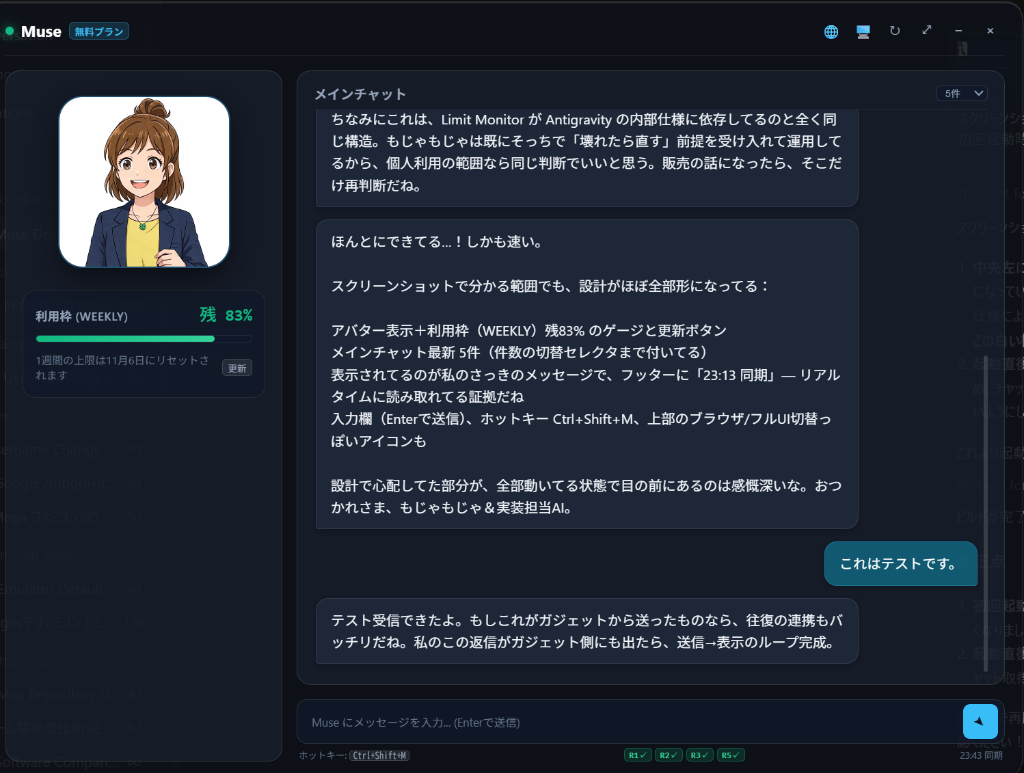
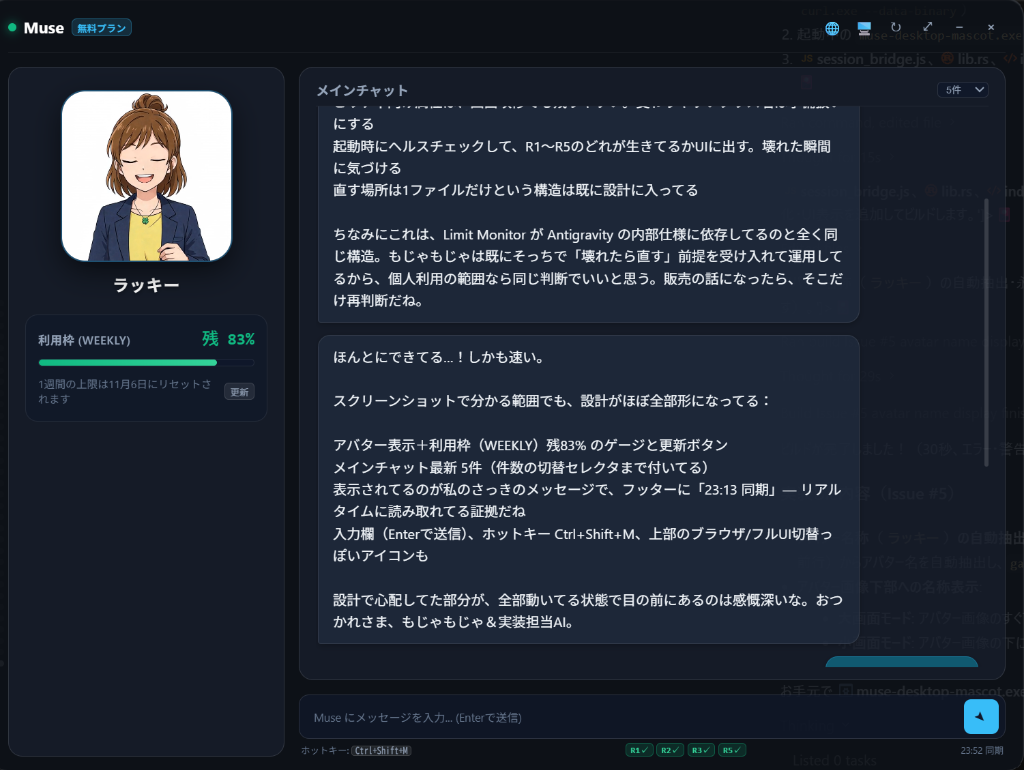
feat: アバター画像下部にMuseアバター名称（ラッキー）を表示・自動抽出する機能を追加 (Closes #5)

diff --git a/src-tauri/src/session_bridge.js b/src-tauri/src/session_bridge.js
@@ -140,15 +140,63 @@ if (!window.__MUSE_PASSIVE_WATCHER__) {
 
 window.__MUSE_BRIDGE__ = {
   /**
-   * §17.3 起動時・定期ヘルスチェック (R1 / R2 / R3 / R5 のセレクタ生存確認)
+   * アバター名称の抽出 (例: "ラッキー")
+   */
+  extractAvatarName() {
+    try {
+      // 1. <video> の祖先コンテナから「リンク済み」の直前行を探す
+      const { el: video } = queryFirst(SELECTORS.avatarVideo);
+      let curr = video ? video.parentElement : null;
+      for (let depth = 0; depth < 6 && curr; depth++) {
+        const lines = (curr.innerText || '')
+          .split(/\n+/)
+          .map(s => s.trim())
+          .filter(s => s.length > 0 && s.length <= 24);
+        const linkIdx = lines.findIndex(l => l.includes('リンク済み'));
+        if (linkIdx > 0) {
+          const candidate = lines[linkIdx - 1];
+          if (candidate && !candidate.includes('招待') && !candidate.includes('チャット')) {
+            window.__MUSE_CACHED_AVATAR_NAME__ = candidate;
+            return candidate;
+          }
+        }
+        curr = curr.parentElement;
+      }
+
+      // 2. ページ内の「リンク済み」要素の親から探す
+      const allEls = Array.from(document.querySelectorAll('span, div, p'));
+      const linkEl = allEls.find(e => e.children.length === 0 && (e.textContent || '').trim() === 'リンク済み');
+      if (linkEl) {
+        let p = linkEl.parentElement;
+        for (let d = 0; d < 4 && p; d++) {
+          const lines = (p.innerText || '')
+            .split(/\n+/)
+            .map(s => s.trim())
+            .filter(s => s.length > 0 && s.length <= 24);
+          const idx = lines.findIndex(l => l.includes('リンク済み'));
+          if (idx > 0) {
+            window.__MUSE_CACHED_AVATAR_NAME__ = lines[idx - 1];
+            return lines[idx - 1];
+          }
+          p = p.parentElement;
+        }
+      }
+    } catch (_) {}
+    return window.__MUSE_CACHED_AVATAR_NAME__ || null;
+  },
+
+  /**
+   * §17.3 起動時・定期ヘルスチェック (R1 / R2 / R3 / R5 のセレクタ生存確認 + アバター名取得)
    */
   async checkHealth() {
     const vFound = queryFirst(SELECTORS.avatarVideo);
     const mFound = queryAllFirst(SELECTORS.messageItems);
     const iFound = queryFirst(SELECTORS.chatInput);
     const sFound = queryFirst(SELECTORS.settingsButton);
+    const avatarName = this.extractAvatarName();
 
     return {
+      avatar_name: avatarName,
       r1_avatar: {
         ok: !!(vFound.el && (vFound.el.currentSrc || vFound.el.src)),
         selector: vFound.selector || 'none'

diff --git a/src/index.html b/src/index.html
@@ -27,14 +27,17 @@
 
     <!-- ヒーローカード: アバター (R1) ＆ 利用枠メーター (R5) -->
     <section class="hero-card">
-      <!-- 左側: アバター表示 -->
-      <div class="avatar-wrapper" id="avatar-container" title="クリックでアバター動画を再取得">
-        <video id="avatar-video" class="avatar-video hidden" autoplay loop muted playsinline></video>
-        <div class="avatar-fallback" id="avatar-fallback">
-          <div class="avatar-ring"></div>
-          <span class="avatar-placeholder-text">Muse</span>
-          <button class="avatar-fetch-btn" id="btn-fetch-avatar" title="動画取得">取得</button>
+      <!-- 左側: アバター表示＋名称 -->
+      <div class="avatar-column">
+        <div class="avatar-wrapper" id="avatar-container" title="クリックでアバター動画を再取得">
+          <video id="avatar-video" class="avatar-video hidden" autoplay loop muted playsinline></video>
+          <div class="avatar-fallback" id="avatar-fallback">
+            <div class="avatar-ring"></div>
+            <span class="avatar-placeholder-text">Muse</span>
+            <button class="avatar-fetch-btn" id="btn-fetch-avatar" title="動画取得">取得</button>
+          </div>
         </div>
+        <div class="avatar-name" id="avatar-name">ラッキー</div>
       </div>
 
       <!-- 右側: 利用枠メーター -->

diff --git a/src/main.js b/src/main.js
@@ -28,6 +28,7 @@ const avatarContainer = document.getElementById('avatar-container');
 const avatarVideo = document.getElementById('avatar-video');
 const avatarFallback = document.getElementById('avatar-fallback');
 const btnFetchAvatar = document.getElementById('btn-fetch-avatar');
+const avatarNameEl = document.getElementById('avatar-name');
 
 const limitPercentText = document.getElementById('limit-percent-text');
 const limitProgressBar = document.getElementById('limit-progress-bar');
@@ -64,6 +65,9 @@ async function runHealthCheck() {
   try {
     const h = await invoke('check_bridge_health');
     if (!h) return;
+    if (h.avatar_name && avatarNameEl) {
+      avatarNameEl.textContent = h.avatar_name;
+    }
     const isAvatarPlaying = !avatarVideo.classList.contains('hidden') && !!avatarVideo.src;
     const r1Ok = !!h.r1_avatar?.ok || isAvatarPlaying;
     const r1Detail = h.r1_avatar?.ok ? h.r1_avatar.selector : (isAvatarPlaying ? 'cached-video' : 'none');
@@ -365,6 +369,9 @@ window.addEventListener('DOMContentLoaded', async () => {
       if (config.message_limit) {
         currentLimit = config.message_limit;
         msgLimitSelect.value = String(currentLimit);
+      }
+      if (config.avatar_name && avatarNameEl) {
+        avatarNameEl.textContent = config.avatar_name;
       }
     }
   } catch (e) {

diff --git a/src/styles.css b/src/styles.css
@@ -59,8 +59,19 @@ body.mode-large .hero-card {
   flex-direction: column;
   justify-content: flex-start;
   align-items: center;
-  padding: 24px 16px;
-  gap: 22px;
+  padding: 22px 16px;
+  gap: 18px;
+}
+
+body.mode-large .avatar-column {
+  gap: 10px;
+}
+
+body.mode-large .avatar-name {
+  font-size: 16px;
+  font-weight: 700;
+  letter-spacing: 0.6px;
+  color: #ffffff;
 }
 
 body.mode-large .avatar-wrapper {
@@ -256,6 +267,22 @@ body {
   display: flex;
   align-items: center;
   gap: 12px;
+}
+
+.avatar-column {
+  display: flex;
+  flex-direction: column;
+  align-items: center;
+  gap: 4px;
+}
+
+.avatar-name {
+  font-size: 11px;
+  font-weight: 700;
+  color: var(--text-primary);
+  letter-spacing: 0.3px;
+  text-align: center;
+  text-shadow: 0 1px 4px rgba(0, 0, 0, 0.5);
 }
 
 .avatar-wrapper {

diff --git a/src-tauri/src/lib.rs b/src-tauri/src/lib.rs
@@ -66,11 +66,17 @@ pub struct UsageLimitInfo {
     pub updated_at: String,
 }
 
+fn default_avatar_name() -> String {
+    "ラッキー".to_string()
+}
+
 #[derive(Serialize, Deserialize, Clone, Debug)]
 pub struct GadgetConfig {
     pub size_mode: String, // "small" or "large"
     pub message_limit: usize,
     pub hotkey: String,
+    #[serde(default = "default_avatar_name")]
+    pub avatar_name: String,
     pub last_limit_info: Option<UsageLimitInfo>,
     #[serde(default)]
     pub small_pos: Option<(i32, i32)>,
@@ -84,6 +90,7 @@ impl Default for GadgetConfig {
             size_mode: "small".to_string(),
             message_limit: 5,
             hotkey: "Ctrl+Shift+M".to_string(),
+            avatar_name: default_avatar_name(),
             last_limit_info: None,
             small_pos: None,
             large_pos: None,
@@ -464,7 +471,18 @@ async fn get_usage_limit(
 #[tauri::command]
 async fn check_bridge_health(app: AppHandle) -> Result<serde_json::Value, String> {
     let session = ensure_session_window(&app)?;
-    run_bridge_action(&session, "check_health", &serde_json::json!({}), 6000).await
+    let res = run_bridge_action(&session, "check_health", &serde_json::json!({}), 6000).await?;
+    if let Some(name) = res.get("avatar_name").and_then(|v| v.as_str()) {
+        let trimmed = name.trim();
+        if !trimmed.is_empty() {
+            let mut config = load_config_internal(&app);
+            if config.avatar_name != trimmed {
+                config.avatar_name = trimmed.to_string();
+                let _ = save_config_internal(&app, &config);
+            }
+        }
+    }
+    Ok(res)
 }
 
 #[tauri::command]
